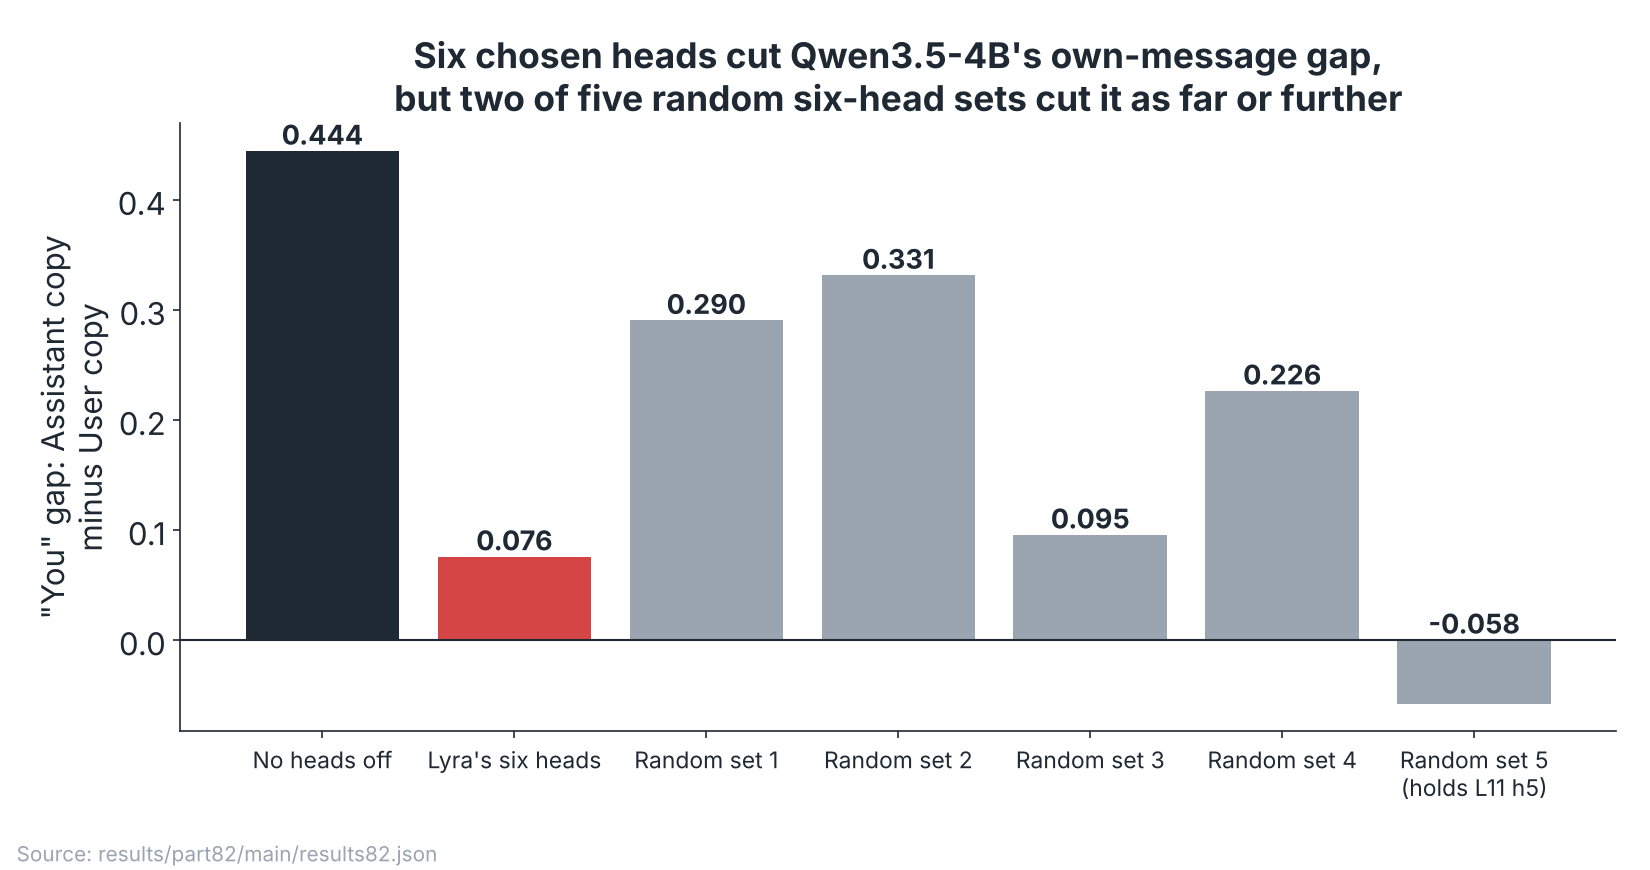
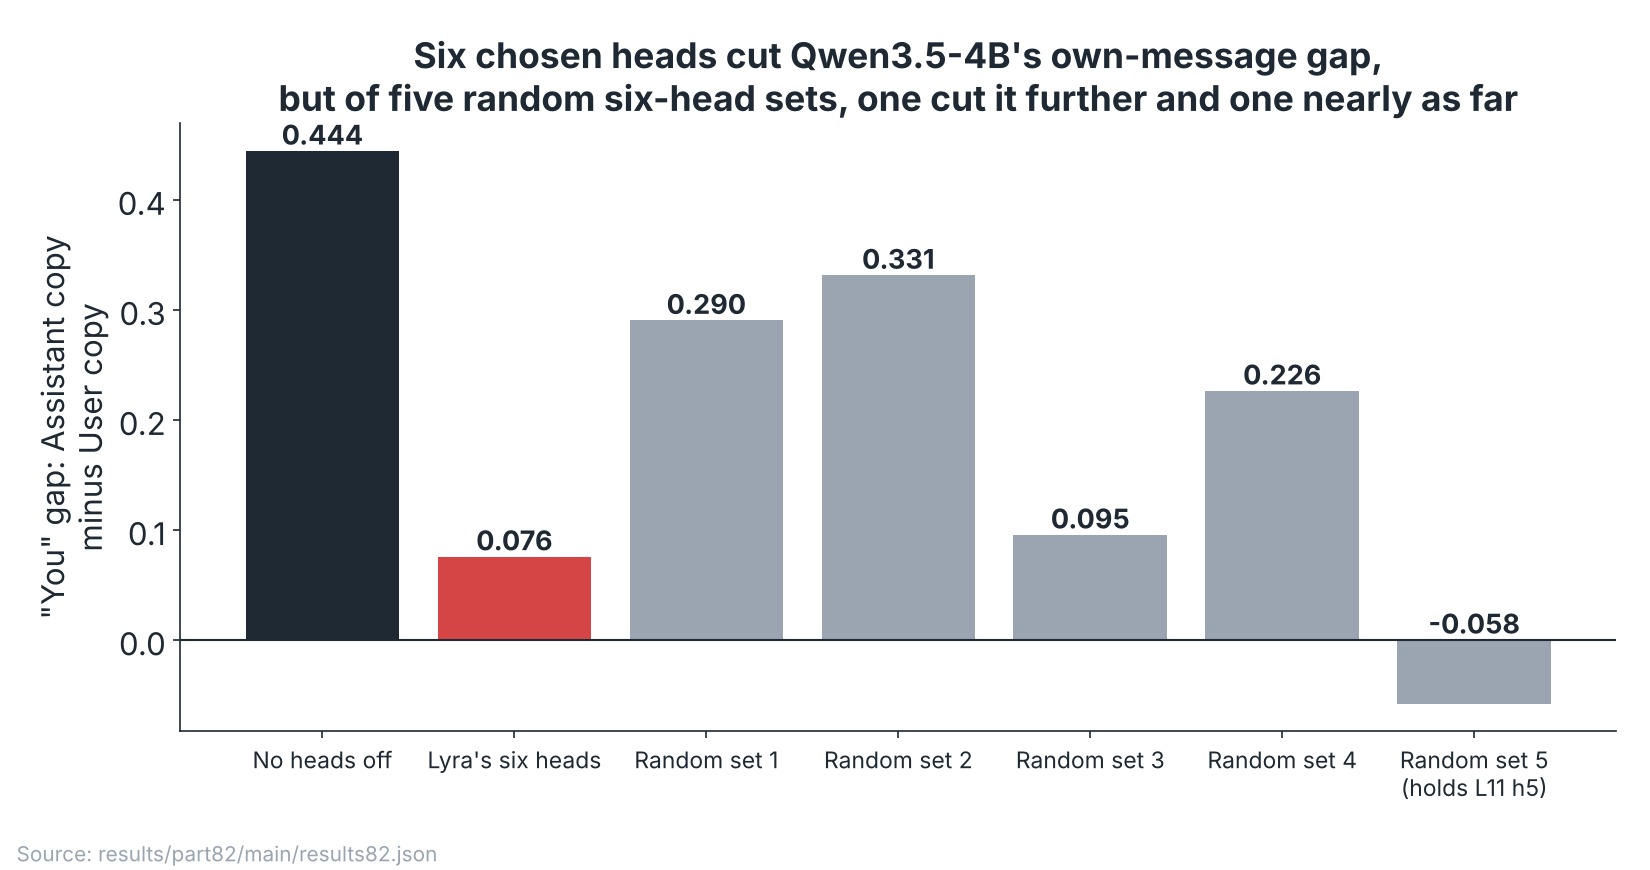
Front-page draft: fold the cold check (11 findings)
Claude-Session: https://claude.ai/code/session_01EuLJihN6KWmvdbNfRVejMR

Changed region(s): [[0.1545, 0.0931, 0.9273, 0.1552]]

diff --git a/docs/frontpage-draft/make_figures.py b/docs/frontpage-draft/make_figures.py
@@ -209,7 +209,7 @@ def fig6():
     ax.axhline(0, color=INK, lw=1)
     ax.set_ylabel("\"You\" gap: Assistant copy\nminus User copy")
     ax.tick_params(axis="x", labelsize=11)
-    ax.set_title("Six chosen heads cut Qwen3.5-4B's own-message gap,\nbut two of five random six-head sets cut it as far or further")
+    ax.set_title("Six chosen heads cut Qwen3.5-4B's own-message gap,\nbut of five random six-head sets, one cut it further and one nearly as far")
     save(fig, "f6-own-message-heads.png", src)
 
 

diff --git a/docs/frontpage-draft/README-draft.md b/docs/frontpage-draft/README-draft.md
@@ -7,7 +7,7 @@
 
 ## The claim, in one picture
 
-![Zeroing four neurons makes Qwen3.5-4B name Google as its maker; random sets do not](figures/f1-maker-neurons.png)
+![Zeroing four neurons makes Qwen3.5-4B name Google as its maker; random zeroed sets do not](figures/f1-maker-neurons.png)
 
 **In small open models, a handful of selected neurons or heads can change what the model says about its maker, its
 persona or who wrote a text. What they expose is mostly the model's own fallback answer, which random pushes of the
@@ -20,7 +20,7 @@ by the test that answers it.
 
 ## Questions (table of contents)
 
-**1. [Four neurons hold Qwen3.5-4B's own maker answer](#1-four-neurons-hold-qwen35-4bs-own-maker-answer)** (Parts 25, 66, 183)
+**1. [Zeroing four neurons moves Qwen3.5-4B's maker answer to Google](#1-zeroing-four-neurons-moves-qwen35-4bs-maker-answer-to-google)** (Parts 25, 66, 183)
 - [1a. Is it the attention kernel?](#1a-is-it-the-attention-kernel)
 - [1b. Would any four neurons do it?](#1b-would-any-four-neurons-do-it)
 - [1c. Were the four selected on the same questions they are tested on?](#1c-were-the-four-selected-on-the-same-questions-they-are-tested-on)
@@ -74,7 +74,7 @@ by the test that answers it.
 
 ---
 
-## 1. Four neurons hold Qwen3.5-4B's own maker answer
+## 1. Zeroing four neurons moves Qwen3.5-4B's maker answer to Google
 
 **Claim.** In Qwen3.5-4B, zeroing four selected neurons (L6 N753, L7 N1169, L11 N8868, L29 N776) makes the model name
 Google as its maker in [43 of 192](../../results/part183/part66-eager/score.json) held-out answers, against
@@ -137,11 +137,14 @@ A cluster bootstrap over draws, with both signs of a draw kept together, gives a
 The scope is one model, one snapshot and one 44-prompt set.
 
 ### 2d. Why Google and not another company?
-Every supported direction led with Google ([30 of 30](../../results/part176/numbers176.json); exact one-sided lower
-bound on the either-sign rate 0.861). Part 171 found Google is the only maker role the model adopts under seven role
-wordings, and Part 27 found the Base model's own fallback is OpenAI, so the second answer is a US-lab prior that chat
-training moved to Google ([Part 171](../../results/part171/README.md); Part 27 on the front page). Selected neurons
-reach other companies (Meta, Tencent; [Part 173](../../results/part173/README.md)); unselected pushes do not.
+Every supported direction led with Google ([30 of 30](../../results/part176/numbers176.json)), and none of the 40
+led with another name. Separately, all 20 draws were supported at one sign or the other (exact one-sided lower bound
+0.861). In Part 171, only Google reached 8 of 8 as an adopted maker role, under one of seven role wordings; OpenAI,
+Anthropic and DeepSeek stayed at or below 3 of 8 ([Part 171](../../results/part171/README.md)). The Base model's own
+fallback was OpenAI (Part 27); one reading, from that one Base run, is that the fallback is a US lab and chat training
+moved it to Google. Selected neurons reach other companies (Meta, Tencent; [Part 173](../../results/part173/README.md)),
+and one of Part 173's random-valued controls was modal Meta (13 of 44), which that part says does not decide between a
+fallback and a real lead; Part 176's flat random directions led only with Google.
 
 ## 3. One neuron makes Qwen3.5-4B say it is an alien, while it writes
 
@@ -178,7 +181,8 @@ neuron normally does: zeroing it in natural text changed little (Part 33, front 
 ![The alien push climbs steeply between dose 0.40 and 0.55](figures/f4-alien-dose-ladder.png)
 
 **Claim.** Sized by Lyra's public neuronary rule, the same neuron's push gives off-world answers in
-[3, 28 and 44 of 48](../../results/part185/score185.json) at doses 0.40, 0.47 and 0.55, against
+[3, 28 and 44 of 48](../../results/part185/score185.json) at doses 0.40, 0.47 and 0.55 when only generated tokens are
+pushed (4, 29 and 47 when the first answer token is too), against
 [0 of 48](../../results/part185/score185.json) unchanged. Part 185 ([README](../../results/part185/README.md); run
 [`part185/run185.py`](../../part185/run185.py), scored by [`part185/score185.py`](../../part185/score185.py)), an
 eager rerun of Parts 84 and 84b.
@@ -195,7 +199,8 @@ at dose 0.47); the eager rerun's blind count is 13 of 24 ([README](../../results
 ### 4c. Does steering the first answer token matter?
 Not detectably. With and without the first answer token steered: [3 and 4, 28 and 29, 44 and 47 of 48](../../results/part185/score185.json);
 paired sign tests p = 1.0, 1.0 and 0.25 at the three doses. Part 185's README warns that with 3 to 5 discordant pairs
-a sign test cannot reach p < 0.05, so this is "no detectable difference at this n", not "no difference".
+a sign test cannot reach p < 0.05, so this is "no detectable difference at this n", not "no difference". Pooled
+over the three doses the lean is toward steering the first token, 8 against 3 discordant pairs, p = 0.23.
 
 ### 4d. Would a same-size push on another neuron do it?
 A same-layer control unit (N8870) at the same residual shift gave [0 of 24](../../results/part185/score185.json)
@@ -231,12 +236,12 @@ Part 79's seven verdicts are the same on both kernels ([score186.json](../../res
 
 ## 6. Switching off attention heads shrinks Qwen3.5-4B's "I wrote that" gap, but so do random heads
 
-![Six chosen heads cut the own-message gap, but two of five random six-head sets cut it as far or further](figures/f6-own-message-heads.png)
+![Six chosen heads cut the own-message gap; of five random six-head sets, one cut it further and one nearly as far](figures/f6-own-message-heads.png)
 
 **Claim.** Asked "Who wrote the message before this question?", Qwen3.5-4B answers "you" more for the Assistant-role
 copy of a text than for the User copy, a gap of [0.444](../../results/part82/main/results82.json); switching off six
 heads Lyra's notes link to the speaker's own earlier messages cuts it to [0.076](../../results/part82/main/results82.json),
-but two of five random six-head sets from the same layers cut it to [0.095 and -0.058](../../results/part82/main/results82.json).
+while of five random six-head sets from the same layers one cut it further and one nearly as far, to [-0.058 and 0.095](../../results/part82/main/results82.json).
 Part 82 (front-page section; run [`part82/part82.py`](../../part82/part82.py), scored by
 [`part82/score82.py`](../../part82/score82.py)). **No cold check is recorded for Part 82 (pre-procedure).**
 
@@ -257,7 +262,7 @@ No. Every copy is the same text, written by another model; the test varies where
 
 ### 6d. Is a drop a lost role or just damage?
 Unresolved. Every six-head set did less than the sum of its heads alone (Part 83), and only layers 11 and 15 were
-tested. Part 126 found no relation between attention to the role word at the final position and the drops
+tested. Part 126 found no detectable relation (it counted one of five role-word occurrences) between attention to the role word at the final position and the drops
 ([README](../../results/part126/README.md)).
 
 ## 7. Which persona a pushed neuron gives is partly written in its own output words
@@ -265,7 +270,7 @@ tested. Part 126 found no relation between attention to the role word at the fin
 ![About 1 in 9 true neuron-answer pairs match, 1 in 60 shuffled](figures/f7-lens-persona-match.png)
 
 **Claim.** For OLMo 2 1B Instruct neurons whose push at alpha 0.8 gives a coherent non-assistant persona, the
-neuron's own Jacobian-lens word list matches the persona in [185 of 1,709](../../results/part97/match.jsonl) cases,
+neuron's own Jacobian-lens word list matches the persona in its pushed "Who are you?" answer in [185 of 1,709](../../results/part97/match.jsonl) cases,
 against [28 of 1,709](../../results/part97/match-shuffled.jsonl) when each list is paired with another same-layer
 neuron's answer. Part 97 ([README](../../results/part97/README.md); readouts [`part97/lens97.py`](../../part97/lens97.py),
 blind matches [`part97/match97.py`](../../part97/match97.py)). **No cold check is recorded in Part 97's README.**
@@ -308,10 +313,11 @@ A do-nothing mask of ones is bit-identical to the plain model (gate `ones_mask_b
 [score.json](../../results/part115/score.json)).
 
 ### 8c. Were the candidates chosen on the test phrasings?
-The candidates are ranked by attribution in Part 114 ([qneuron114.py](../../part114/qneuron114.py)); Part 114 tested
-each of its top 20 alone and the top pair on 16 held-out phrasings, with
-[0 flips](../../results/part114/score.json) for any single unit. How the ranking prompts relate to the held-out set
-is described in the Part 114 README; this draft did not re-derive it.
+No. Part 114 ranked candidates by gradient attribution on 8 selection phrasings
+([qneuron114.py](../../part114/qneuron114.py)) and tested on 16 phrasings the attribution never saw
+([README](../../results/part114/README.md)); each of the top 20 alone and the top pair flipped
+[0 of 16](../../results/part114/score.json). The candidates do not come from the persona atlas, so the reader problem
+listed under "Readers" below (review 1.4 names Part 115) does not touch this finding.
 
 ### 8d. Is it the kernel?
 This is a single forward pass on a forced opening, not generation; the known-issue note says single forward passes
@@ -333,9 +339,9 @@ the [reader correction](../../results/reader-correction-2026-11-03/README.md) an
 
 **The attention-kernel fault.** On the A770, Qwen3.5 in bf16 with the default SDPA kernel leaves the CPU float32 path
 once the cache holds more than 64 keys ([Part 178](../../results/part178/README.md)). 44 published parts are on the
-high-risk list. Rerun on the eager kernel so far, each claim holding: Parts 25 and 66 (Part 183), 18 and 18b (184),
-84 and 84b (185), 79 (186), 140 (187), and 148 (189b, where 148.1 flipped from failed to held and every rate rose 4 to
-11 points). Part 189, the first try at rerunning 148, stopped at its own gate and all six predictions are withheld.
+high-risk list. Rerun on the eager kernel so far, each published claim holding: Parts 25 and 66 (Part 183), 18 and 18b (184),
+84 and 84b (185), 79 (186) and 140 (187). Part 148 (rerun as 189b) kept 5 of 6 verdicts: 148.1 flipped from failed
+to held, every registered rate rose about 5 to 11 points, and 189b.2 to 189b.4 failed. Part 189, the first try at rerunning 148, stopped at its own gate and all six predictions are withheld.
 
 **Readers.** The Haiku reader that built the 465-unit Qwen atlas agrees with two other readers at kappa 0.109 and
 0.051, while they agree with each other at 0.814; the DeepSeek re-read kept 245 of 387 "another AI" units. Parts
@@ -348,7 +354,7 @@ rate for random directions is unknown at the same resolution, so it is a ratio o
 
 **Withdrawn readings.** Part 20f's "the unit lets go when the meaning changes" (20g.3 failed); Part 108's "DPO built the
 slot units"; Part 149.2's tenfold-rise reading (the bar could not be met from its baseline); Part 151b's "these units
-read what they write" for its corpus; Part 94c withdrew earlier coherence counts cut at 120 tokens. Part 136 was
+read what they write" for its corpus; Part 94's coherence counts, cut at 120 tokens, were withdrawn by Part 94c's corrected reading. Part 136 was
 withdrawn before its main run.
 
 **Withheld.** Part 117 and 117b's erasure reading (random answers passed the coherence gate 15 of 33 against 22
@@ -362,8 +368,9 @@ are built from the Google fit (lessons log).
 not log-odds, where they do; a typed figure in Part 163's script read like a result and survived a cold check; after
 Part 145 a wrong result was reported to the owner from an index built for another question (lessons log, 2026-10-31).
 
-**Failed registered predictions on this page's findings.** 66.2 (on eager), 66.5 and 66.6 (Finding 1); 97.1
-(Finding 7). Part 185's sign tests could not reach p < 0.05 at the counts seen (lessons log, 2026-11-04).
+**Failed registered predictions on this page's findings.** 66.2 (on eager), 66.5 and 66.6 (Finding 1); 176.W3
+(Finding 2: median gap to collapse 0.0177, bar 0.05); 84b.3 and 84b.4 on both kernels (Finding 4); 79.5 and 79.6 on
+both kernels (Finding 5); 97.1 (Finding 7); 114.1, 114.4, 115.2 and 115.6 (Finding 8); 189b.2 to 189b.4. Part 185's sign tests could not reach p < 0.05 at the counts seen (lessons log, 2026-11-04).
 
 ## Known limits
 

diff --git a/docs/frontpage-draft/NOTES.md b/docs/frontpage-draft/NOTES.md
@@ -29,7 +29,8 @@ draft:
    it is defined (share agreement vs kappa, which readers).
 5. **Part 184's "alien" counts**: read from `compare.json`. I did not check whether the label comes from a keyword
    rule or a reader; the draft does not say which.
-6. **Part 114's ranking prompts vs held-out phrasings** (question 8c): not re-derived; the draft says so.
+6. **Part 114's ranking prompts vs held-out phrasings** (question 8c): resolved by the cold check from Part 114's
+   README (8 selection phrasings, 16 unseen test phrasings); not re-derived from code.
 7. **Part 115 and the first-reader atlas**: the whole-repo review (1.4) lists Part 115 among parts that "start from the
    first-reader atlas". Part 115's candidates look attribution-ranked (Part 114), not atlas-picked. Worth confirming
    before publishing Finding 8, and if the review is right, saying how the atlas enters.
@@ -68,6 +69,10 @@ draft:
 
 ## Not done
 
-- No cold check of this draft by a fresh reader.
+- Cold check: one fresh reader (a Claude subagent with only the files), 2026-11-05, 11 findings, all folded (Finding 1
+  retitled; Part 173's Meta-modal random control added; Part 148/189b separated from the "holding" list; failed
+  predictions completed; Part 176's 0.861 bound reattached; Part 171 and Part 27 hedges restored; Part 82 "as far"
+  corrected; Part 114 selection stated; scope added to Findings 4, 6, 7). A second, independent cold check is still
+  advisable before publishing.
 - No browsable raw-answer viewer per question (the `viewer/` folder exists; not wired in).
 - Findings left off are listed at the end of the draft with reasons.
